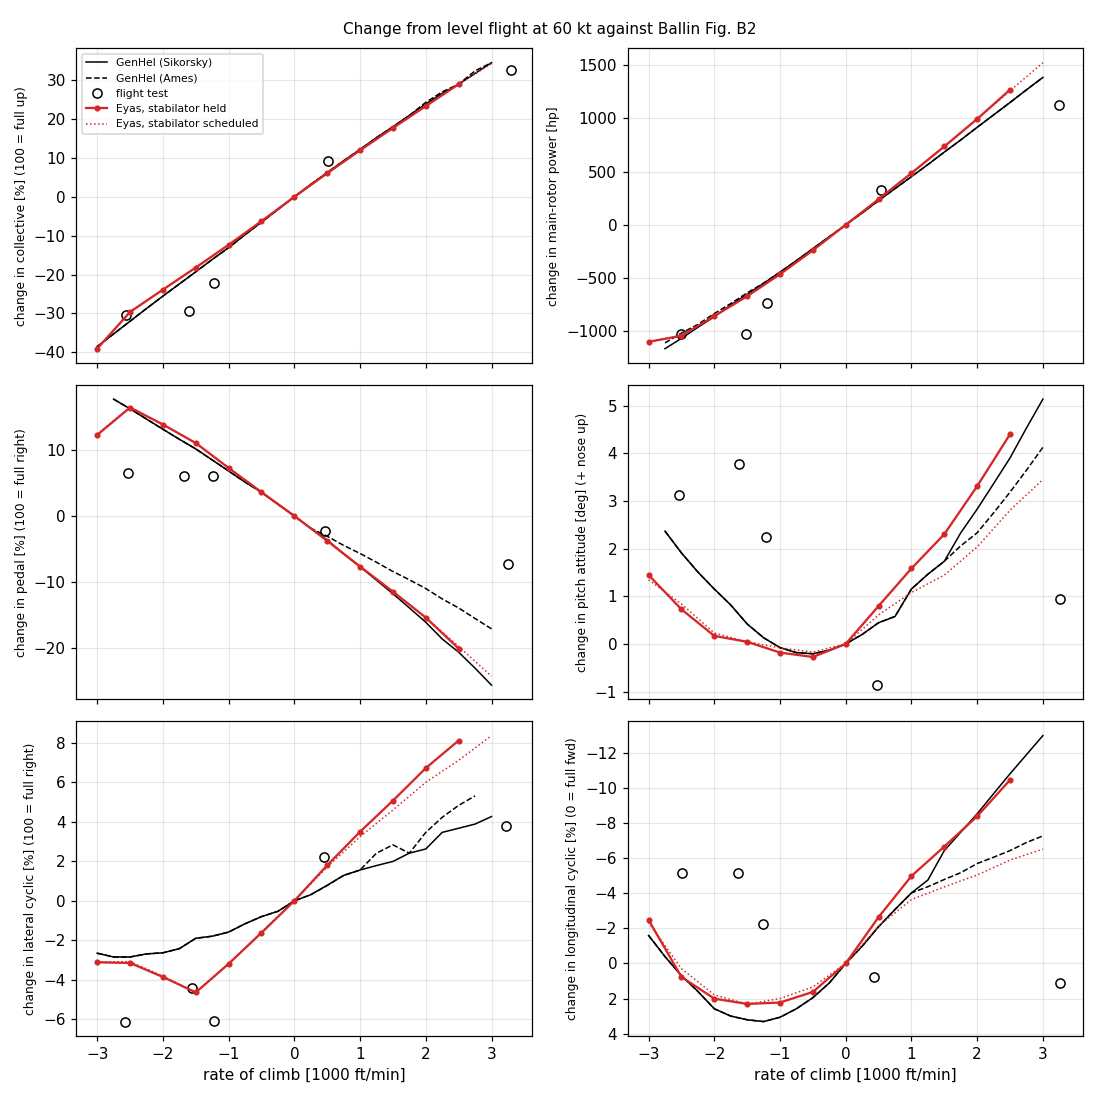
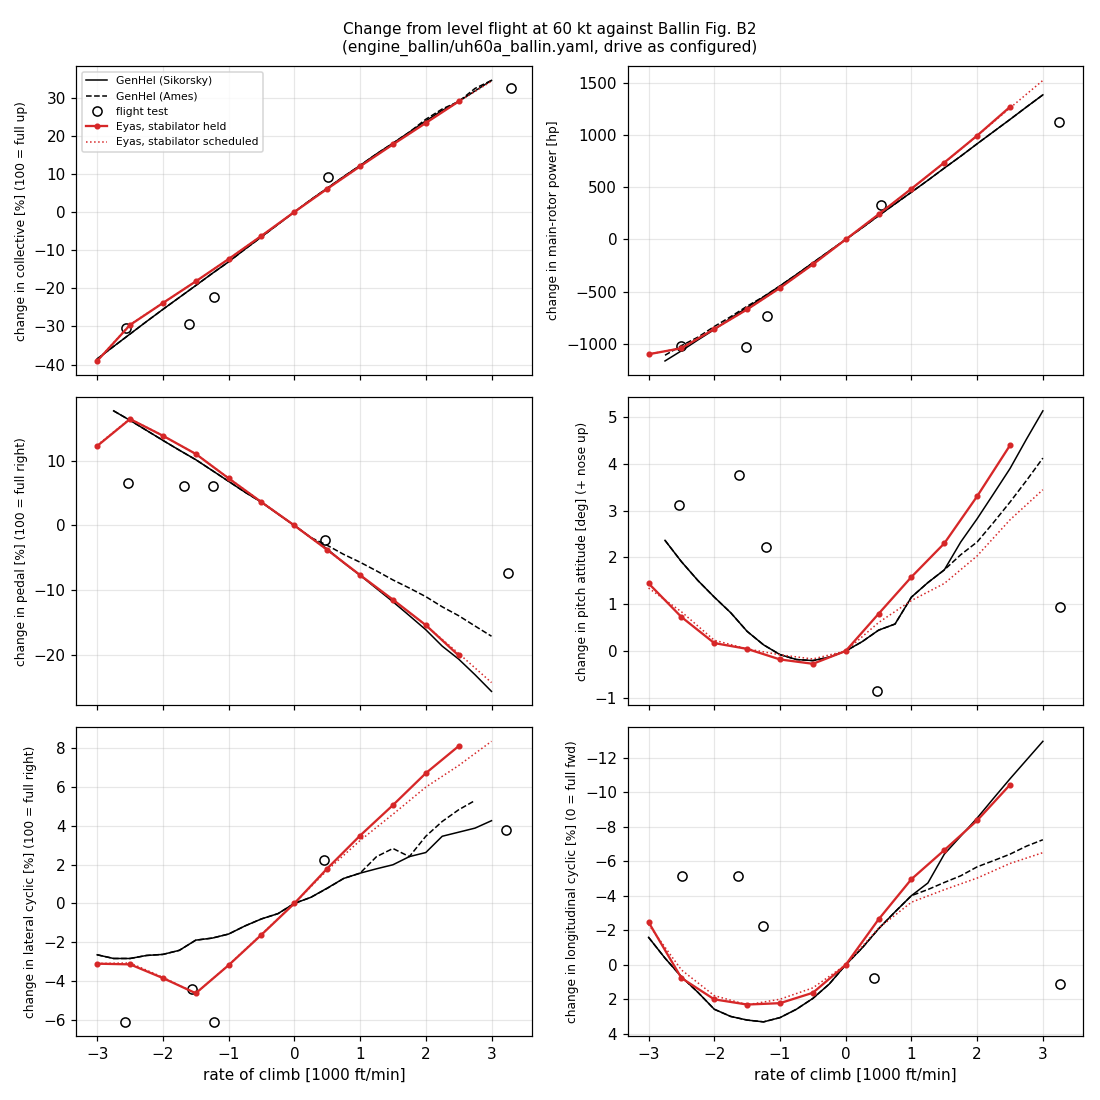
M7c climbs review: CSVs and plots name the drive; the table script tracked
eyas_m7c_cases's comment line names the aircraft and the drive, and
plot_m7c.py titles the climb plots with it (plots regenerated, data
unchanged). tools/m7c_climb_table.py computes the climb tables in
VALIDATION.md M9. VALIDATION.md: the gate's 1000 ft/min steps explain
its lower climb records; M7c's lateral-cyclic bullet gives the values
since D-048.

Claude-Session: https://claude.ai/code/session_01URPo1vS9ZdajqvD2QM5iLx

diff --git a/tools/m7c_climb_table.py b/tools/m7c_climb_table.py
@@ -1,0 +1,78 @@
+"""The M7c climb table per drive, for VALIDATION.md M7c and M9 (Ballin Figs. B2-B4).
+
+For each run directory written by eyas_m7c_cases: the climbs that trim, the RMS of
+Eyas - Sikorsky GenHel as the change from level flight (over the Sikorsky readings inside
+the climbs that trim; stabilator held), the differences at the range's ends, the held and
+scheduled RMS of longitudinal cyclic and pitch, and the main-rotor power slope over
+-2000 to +2000 ft/min (a least-squares line through the trims there).
+
+    .venv/bin/python tools/m7c_climb_table.py <run-dir> [<run-dir> ...]
+"""
+
+import sys
+from pathlib import Path
+
+import numpy as np
+
+import plot_m7c as P
+
+QTYS = ["collective", "longitudinal_cyclic", "lateral_cyclic", "pedal", "pitch_attitude",
+        "main_rotor_power"]
+
+
+def converged(eyas, kt, constraint):
+    """Converged trims at one speed and constraint, by rate of climb."""
+    return sorted((r for r in eyas if r["knots"] == kt and r["constraint"] == constraint
+                   and r["converged"]), key=lambda r: r["rate_of_climb_fpm"])
+
+
+def drive(run):
+    eyas = P.load_eyas(run / "m7c_climb.csv")
+    print(f"== {run}{P.aircraft(run / 'm7c_climb.csv')}")
+    for fig_id, kt in (("b2", 60.0), ("b3", 100.0), ("b4", 137.5)):
+        b = P.load_ballin(fig_id)
+        both = []
+        for constraint in ("fixed_stabilator", "genhel"):
+            rows = converged(eyas, kt, constraint)
+            x = np.array([r["rate_of_climb_fpm"] / 1000.0 for r in rows])
+            held = constraint == "fixed_stabilator"
+            if held:
+                print(f"{kt:6g} kt, held: trims {x.min():+.1f} to {x.max():+.1f} "
+                      "[1000 ft/min]")
+            for q in QTYS:
+                col = P.QTY[q][0]
+                scale = 0.01 if q == "main_rotor_power" else 1.0  # Ballin plots hp/100
+                e = P.from_level(np.column_stack([x, [r[col] for r in rows]]))
+                s = P.from_level(P.series(b, q, "sikorsky_genhel") * [1.0, 1.0 / scale])
+                inside = s[(s[:, 0] >= x.min()) & (s[:, 0] <= x.max())]
+                d = np.interp(inside[:, 0], e[:, 0], e[:, 1]) - inside[:, 1]
+                rms = np.sqrt((d ** 2).mean())
+                if held:
+                    lo, hi = (np.interp(v, e[:, 0], e[:, 1]) - np.interp(v, s[:, 0], s[:, 1])
+                              for v in (x.min(), x.max()))
+                    print(f"   {q:22s} rms {rms:6.2f}   ends {lo:+6.2f} at {x.min():+.1f}, "
+                          f"{hi:+6.2f} at {x.max():+.1f}")
+                if q in ("longitudinal_cyclic", "pitch_attitude"):
+                    both.append(f"{q} {'held' if held else 'scheduled'} {rms:.2f}")
+                if q == "main_rotor_power" and held:
+                    m = (x >= -2.0) & (x <= 2.0)
+                    eyas_slope = np.polyfit(x[m], np.array([r[col] for r in rows])[m], 1)[0]
+                    sg = P.series(b, q, "sikorsky_genhel")
+                    ms = (sg[:, 0] >= -2.0) & (sg[:, 0] <= 2.0)
+                    sik_slope = np.polyfit(sg[ms, 0], sg[ms, 1] / scale, 1)[0]
+                    print(f"   power slope over {x[m].min():+.1f} to {x[m].max():+.1f}: Eyas "
+                          f"{eyas_slope:.0f}, Sikorsky {sik_slope:.0f} hp per 1000 ft/min")
+        print("   " + "; ".join(both))
+
+
+def main():
+    if len(sys.argv) < 2:
+        print(__doc__)
+        return 2
+    for run in sys.argv[1:]:
+        drive(Path(run))
+    return 0
+
+
+if __name__ == "__main__":
+    sys.exit(main())

diff --git a/tools/plot_m7c.py b/tools/plot_m7c.py
@@ -115,6 +115,15 @@ def level(data, outdir, table):
     plt.close(fig)
 
 
+def aircraft(path):
+    """The aircraft and drive from the CSV's comment line (eyas_m7c_cases), as a title suffix;
+    empty for files written before it named them."""
+    with path.open(encoding="utf-8") as f:
+        first = f.readline()
+    _, sep, rest = first.partition("aircraft: ")
+    return f"\n({rest.strip()})" if sep else ""
+
+
 def from_level(xy):
     """A climb series as the change from its own level-flight value (interpolated at 0)."""
     if not len(xy):
@@ -173,7 +182,7 @@ def climbs(data, outdir, table):
             ax.set_xlabel("rate of climb [1000 ft/min]")
         axs[0, 0].legend(fontsize=7)
         fig.suptitle(f"Change from level flight at {kt:g} kt against Ballin Fig. "
-                     f"{fig_id.upper()}", fontsize=10)
+                     f"{fig_id.upper()}{aircraft(data / 'm7c_climb.csv')}", fontsize=10)
         fig.tight_layout()
         fig.savefig(outdir / f"m7c_climb_{kt:g}kt.png", dpi=110)
         plt.close(fig)

diff --git a/tests/validation/m7c_cases.cpp b/tests/validation/m7c_cases.cpp
@@ -62,9 +62,13 @@ void write(const std::filesystem::path& dir) {
     const test::Uh60aHarness ac = g_ideal ? test::Uh60aHarness(ideal_shaft_config(aircraft()))
                                           : test::Uh60aHarness(aircraft().string());
     const Executive& ex = ac.executive();
+    // The aircraft and the drive, so the three drives' files tell apart (and
+    // plot_m7c.py titles its plots with them).
+    const std::filesystem::path file = aircraft().parent_path().filename() / aircraft().filename();
     const std::string comment =
-        "# UH-60A at Ballin's App. B conditions (NASA TM-88360): uh60a_ballin.yaml, ISA 5250 ft "
-        "(M7c, D-035)\n";
+        "# UH-60A at Ballin's App. B conditions (NASA TM-88360), ISA 5250 ft (M7c, D-035); "
+        "aircraft: " +
+        file.generic_string() + (g_ideal ? ", rotor shaft ideal" : ", drive as configured") + "\n";
 
     std::ofstream level(dir / "m7c_level.csv");
     level << comment << kHeader;

diff --git a/docs/VALIDATION.md b/docs/VALIDATION.md
@@ -831,7 +831,7 @@ With the stabilator held, against Sikorsky (rms over the Sikorsky curve's readin
 
 - *Power against climb rate* (slope over ±2000 ft/min, hp per 1000 ft/min): Eyas 465 / 479 / 521, Sikorsky 445 / 469 / 447, Ames 441 / 455 / 447, flight test 414 / 483 / 368 (four points each); W·V_c at 16 000 lbf is 485. At 60 and 100 kt Eyas is within 2–4 % of GenHel, so the unknown weight of B2–B4 can't be far from B1's; at 137.5 kt Eyas's slope is 14 % above GenHel's and above W·V_c. `Open.`
 - *Collective in steep descent:* Eyas's collective falls less than GenHel's, by 3.4, 6.0 and 9.2 % at −3000 ft/min, growing with speed. `Open.`
-- *Lateral cyclic in steep climb:* Eyas moves right of GenHel by 3.2 and 5.3 % at +3000 ft/min (60, 100 kt) and 7.2 % at +2000 ft/min at 137.5 kt (the gate's record since 2026-10-29: +2500 ft/min and up need more than full collective there, D-053 amendment 8; it was 9.5 % at +3000 on a trim at 105 %). `Open.`
+- *Lateral cyclic in steep climb:* Eyas moves right of GenHel by 3.2 and 5.3 % at +3000 ft/min (60, 100 kt; since D-048 5.4 and 8.9 %, M9 below) and 7.2 % at +2000 ft/min at 137.5 kt (the gate's record since 2026-10-29: +2500 ft/min and up need more than full collective there, D-053 amendment 8; it was 9.5 % at +3000 on a trim at 105 %). `Open.`
 - *Since the engines:* the table above was recorded on 2026-10-16 with every climb point trimmed and the rotor speed held. It is re-derived on the engine configs, and moved by D-048 before any engine, in M9, "Ballin's climbs on the engines". The generator flies GenHel's engines by default, where some ends don't trim, and `plot_m7c.py` leaves unconverged points out of the plots and differences.
 - These are trends at constant weight and density altitude of unknown value; the climb runs also sit at Eyas's level-flight sideslip, which differs from GenHel's (above).
 - *Investigated (2026-10-16), each by a probe at the climb conditions, stabilator held; Eyas − Sikorsky change from level at 60 / 100 / 137.5 kt:*
@@ -1948,7 +1948,7 @@ The M7 regression's last item: M7c's climb and descent table (Figs. B2–B4, cha
 - **GenHel's engines:** `uh60a_ballin.yaml`, the generator's default;
 - **Ballin's engines:** `engine_ballin/uh60a_ballin.yaml`.
 
-The comparison script, run on the generator at the M7c merge, reproduces M7c's table to every printed digit.
+`tools/m7c_climb_table.py` computes the table below from the runs; on the generator at the M7c merge it reproduces M7c's table to every printed digit.
 
 **RMS of Eyas − Sikorsky, change from level** (over the Sikorsky readings inside the climbs that trim; held / GenHel's engines / Ballin's engines):
 
@@ -1966,7 +1966,7 @@ The comparison script, run on the generator at the M7c merge, reproduces M7c's t
 - **The engines change little.** Where all three trim they agree within their read-off; the RMS differences come mostly from the ranges that trim. The 137.5 kt slope on Ballin's engines is over −2000 to +1500 ft/min.
 - **Where they stop:**
   - On GenHel's engines, 60 and 100 kt below −2000 ft/min autorotate, and GenHel's clutch has no steady slip, so they don't trim (D-056).
-  - On Ballin's engines, every descent trims (the autorotations with the clutches slipping). The climbs stop at the engines' ceiling one 500 ft/min step earlier than with the rotor speed held (D-061).
+  - On Ballin's engines, every descent trims (the autorotations with the clutches slipping). The climbs stop at the engines' ceiling one 500 ft/min step earlier than with the rotor speed held (D-061). The generator steps by 500 ft/min and the V1 gate's ClimbOnEngines by 1000, so the gate's records stop at +2000 and +1000 ft/min, the last whole thousands below these tops.
   - At 137.5 kt every drive stops by +2500 ft/min: full collective, or the ceiling.
 - **Held / scheduled stabilator**, RMS (Ballin's engines): longitudinal cyclic 0.6 / 2.4, 1.4 / 5.0, 1.7 / 6.6 %; pitch 0.61 / 0.75, 0.55 / 0.58, 0.48 / 1.00°. Holding it, as Sikorsky did, still matches better.
 
@@ -1996,6 +1996,6 @@ The three unexplained B2–B4 gaps stay open (gap register): descent collective,
 
 ![Climbs at 137.5 kt on Ballin's engines](validation/m9/m9_ballin_climb_137.5kt.png)
 
-*Reproduce:* `./build/release/tests/eyas_m7c_cases <dir> [config [ideal]]`, then `tools/plot_m7c.py <dir> <plots>`; nightly in `full-verification.yml`, all three drives.
+*Reproduce:* `./build/release/tests/eyas_m7c_cases <dir> [config [ideal]]`, then `tools/plot_m7c.py <dir> <plots>` (the plots above are its `m7c_climb_<kt>kt.png`, renamed; their titles name the aircraft and the drive) and `tools/m7c_climb_table.py <dir> ...` for the tables; nightly in `full-verification.yml`, all three drives.
 
 **With this the M7 regression on the engine configs is done (issue #39):** the V1 gate on Ballin's engines (D-061), Fletcher's responses (above) and the climb table. Their open items are in the gap register.
